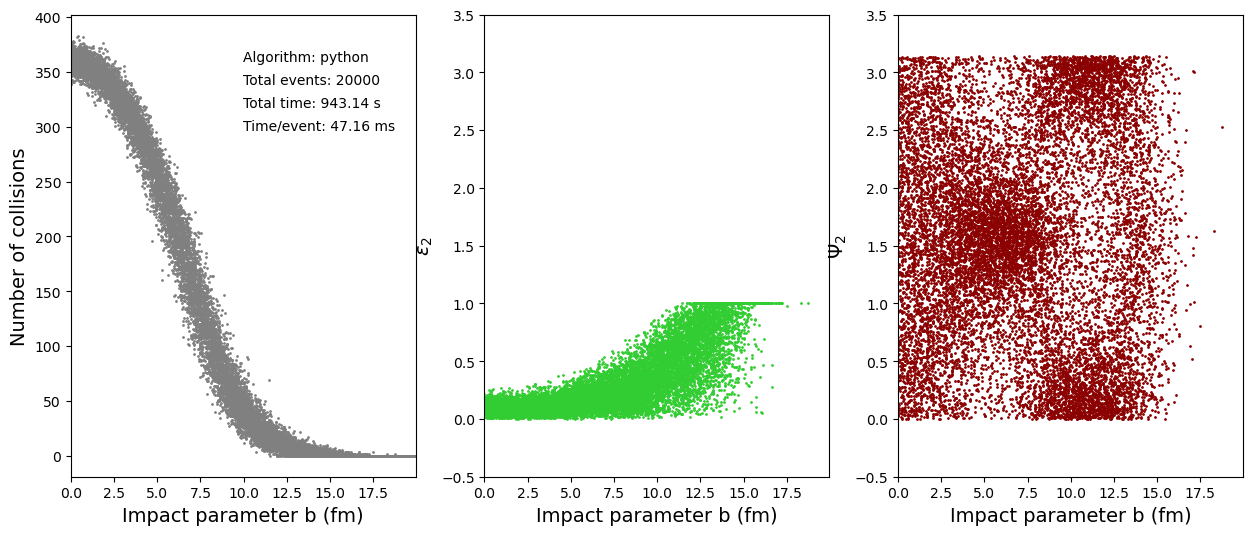
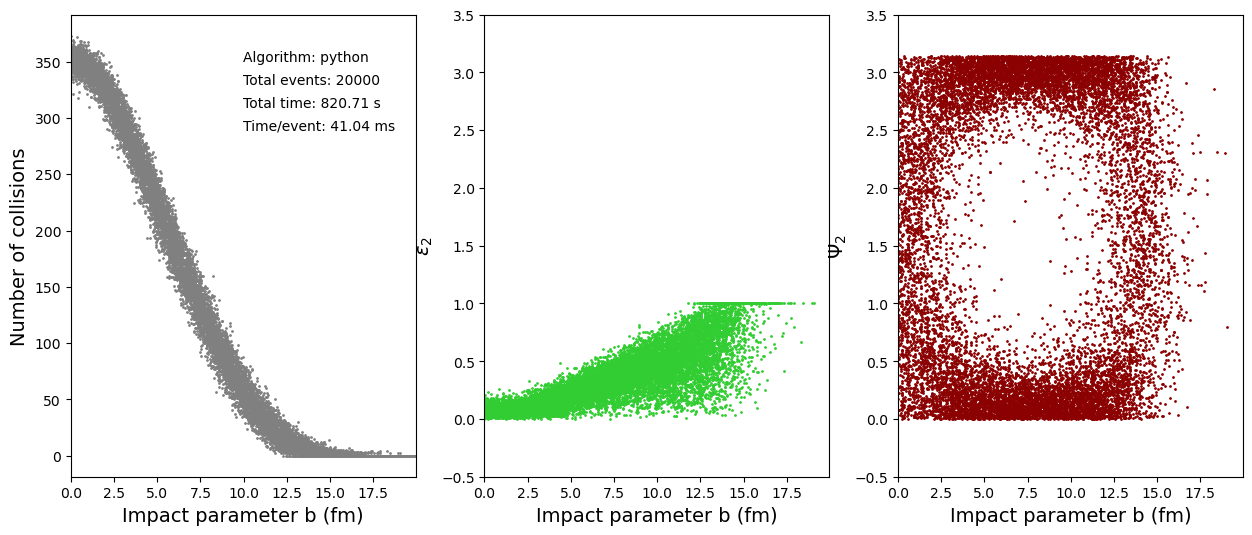
proper simulation, need to update readme

diff --git a/utils/glauber.py b/utils/glauber.py
@@ -1,38 +1,48 @@
 import numpy as np
 from utils import nucphys 
 
+#params au:
+# w = 0 # true for gold, I dont really use this, but keep for completeness
+def rho(r, R, a, w=0):
+  rho0 = 1 # nuclear density in the center (just use 1) 
+  num = 1 + w #w = w(r/R)=0 for gold (in general spherical nuclei) -> then rho decays to woods_saxon
+  denum = 1 + np.exp((r - R) / a)
+  return rho0 * num/denum
 
-def sample_woods_saxon(A, R, a, dmin, V0 = 1.0): # we assume V0 = 1
+def sample_f(r, R, a):
+  return 4*np.pi*r**2 * rho(r, R, a)
+
+def sample_woods_saxon(A, R, a, dmin):
   """
-  Sample A nucleon coordinates from a Woods-Saxon distribution
-  A: number of nucleons
-  R: radius parameter
-  a: diffuseness parameter
-  dmin: minimum inter-nucleon distance
-  Returns:
-    numpy array of coordinates of shape (A,3) (x,y,z)
+    Rejection sampling of nucleon coordinates from Woods-Saxon distribution
   """
-  coords=[]
-  while len(coords)<A:
-    rmax = 15.0 # should be enough for all nuclei
-    r = rmax*np.random.rand() 
-    costh = 2*np.random.rand()-1 # [-1,1] for cos(theta) 
-    phi = 2*np.pi*np.random.rand()
-    prob = V0/(1.0+np.exp((r-R)/a))
-    if np.random.rand()<prob:
-      x = r*np.sqrt(1-costh**2)*np.cos(phi)
-      y = r*np.sqrt(1-costh**2)*np.sin(phi)
-      z = r*costh
+  rmax = 15.0 # same as TGlauber
+
+  # r_grid = np.linspace(0.0, rmax, 1000)
+  # fmax = np.max(sample_f(r_grid, R, a))
+  fmax = 400.0 # precomputed maximum of sample_f for R=6.38, a=0.535, rmax=15.0 - should find a better way to do this
+
+  coords = []
+  while len(coords) < A:
+    r = rmax * np.random.rand()
+    costh = 2*np.random.rand() - 1 # [-1,1] for cos
+    phi = 2*np.pi * np.random.rand()
+    u = np.random.rand() * fmax
+    if u < sample_f(r, R, a):
+      s = np.sqrt(1 - costh*costh) # sin(theta)
+      x = r * s * np.cos(phi)
+      y = r * s * np.sin(phi)
+      z = r * costh
       ok = True
-      for (xx,yy,zz) in coords:
-        if (x-xx)**2+(y-yy)**2+(z-zz)**2<dmin**2:
+      for (xx, yy, zz) in coords:
+        if (x-xx)**2 + (y-yy)**2 + (z-zz)**2 < dmin**2:
           ok = False
           break
       if ok:
-        coords.append((x,y,z))
+        coords.append((x, y, z))
   return np.array(coords)
 
-def find_collisions(nuc1,nuc2,sig_nn=10.0):
+def find_collisions(nuc1,nuc2,sig_nn=10.0, doBC=False):
   """ 
   Find collisions between two sets of nucleons.
   nuc1, nuc2: arrays of shape (N,3) with nucleon coordinates
@@ -44,7 +54,8 @@ def find_collisions(nuc1,nuc2,sig_nn=10.0):
   rcut = np.sqrt(sig_nn/np.pi)
   part1 = np.zeros(len(nuc1),bool)
   part2 = np.zeros(len(nuc2),bool)
-  #bc = []
+  if doBC:
+    bc = []
   for i in range(len(nuc1)):
     for j in range(len(nuc2)):
       dx = nuc1[i,0]-nuc2[j,0]
@@ -53,21 +64,25 @@ def find_collisions(nuc1,nuc2,sig_nn=10.0):
       if dx*dx+dy*dy+dz*dz<rcut*rcut:
         part1[i] = True
         part2[j] = True
-        # bc.append(((nuc1[i,0]+nuc2[j,0])/2,
-        #            (nuc1[i,1]+nuc2[j,1])/2,
-        #            (nuc1[i,2]+nuc2[j,2])/2))
-  return part1, part2# , np.array(bc)
+        if doBC:
+          bc.append(((nuc1[i,0]+nuc2[j,0])/2,
+                   (nuc1[i,1]+nuc2[j,1])/2,
+                   (nuc1[i,2]+nuc2[j,2])/2))
+  if doBC:
+    return part1, part2, np.array(bc)
+  return part1, part2
+
 
 
 #Nucleus	Model	<r2>1/2 [fm]	c or a [fm]	z or ? [fm]	w	q-range	reference
 # 206Pb	FB	5.49	N/A	N/A	N/A	
 class Nuclei:
-  def __init__(self, A = 50):
+  def __init__(self, par):
     self.coords = None
-    self.A = A # nucleon number
-    self.R = 1.25 * A**(1/3) # R = r0 * A^(1/3), r0 = 1.25 fm
-    self.a = 0.5 # diffuseness parameter #found on wiki
-    self.dmin = 0.4 # minimum inter-nucleon distance
+    self.A = par.A # nucleon number
+    self.R = par.R #1.25 * A**(1/3) # R = r0 * A^(1/3), r0 = 1.25 fm
+    self.a = par.a #0.5 # diffuseness parameter #found on wiki
+    self.dmin = par.dmin # 0.4 # minimum inter-nucleon distance
 
   def sample_ws(self):
     self.coords = sample_woods_saxon(self.A, self.R, self.a, self.dmin)
@@ -90,7 +105,6 @@ class Nuclei:
   @property
   def shape(self):
     return self.coords.shape
-
 
 def calcPsi2Ecc2(nuc1, nuc2, wounded1, wounded2):
   # collect wounded nucleons from both nuclei
@@ -118,7 +132,6 @@ def calcPsi2Ecc2(nuc1, nuc2, wounded1, wounded2):
   psi2 = 1/2.0 * (np.arctan2(sin2,cos2) + np.pi) # shift from -pi,pi to 0,2pi
 
   return eps2, psi2
-
 
 if __name__ == "__main__":
   print(nucphys.nucmath.woods_saxon.__doc__)

diff --git a/plot_collision.py b/plot_collision.py
@@ -10,6 +10,7 @@ from matplotlib.patches import Ellipse
 
 from utils.glauber import sample_woods_saxon, find_collisions, Nuclei, calcPsi2Ecc2
 from utils import nucphys 
+from main import setup
 
 def draw_psi2_plane(ax, psi2, zmin=-25, zmax=25, r=15):
   nx = np.cos(psi2 + np.pi/2)
@@ -27,22 +28,23 @@ def draw_psi2_plane(ax, psi2, zmin=-25, zmax=25, r=15):
   return plane
 
 def collision_plane():
-  np.random.seed(11) # does not matter when using fortran
-  A=206 # nucleon number (
+  np.random.seed(15) # does not matter when using fortran
+  #A=206 # nucleon number (
+  par = setup()
   b=9.0 
-  nuc1 = Nuclei(A)
-  nuc1.sample_fws()
-  nuc2 = Nuclei(A)
-  nuc2.sample_fws()
+  nuc1 = Nuclei(par)
+  nuc1.sample_ws()
+  nuc2 = Nuclei(par)
+  nuc2.sample_ws()
 
   #nuc1[:,1]+=b/4
   nuc2[:,1]+=b/2
   nuc1[:,0]-=b/2
   nuc2[:,0]+=b/2
 
-  wounded1 = np.zeros(A, 'f', order='F') 
-  wounded2 = np.zeros(A, 'f', order='F') 
-  nucphys.nucutils.find_collisions(nuc1.coords,nuc2.coords, 10.0, wounded1, wounded2, A) 
+  wounded1 = np.zeros(par.A, 'f', order='F') 
+  wounded2 = np.zeros(par.A, 'f', order='F') 
+  nucphys.nucutils.find_collisions(nuc1.coords,nuc2.coords, 10.0, wounded1, wounded2, par.A) 
   wounded1 = wounded1.astype(bool)
   wounded2 = wounded2.astype(bool)
   #wounded1, wounded2 = find_collisions(nuc1, nuc2)
@@ -110,12 +112,13 @@ def collision_plane():
   f.savefig('figures/collision.png', dpi=300, bbox_inches='tight')
 
 def col_anim():
-  A=206 # nucleon number (
+  #A=206 # nucleon number (
+  par = setup()
   b=10.0 # impact parameter (change to centrality at some point)
   z0=20.0 # initial z offset
-  nuc1 = Nuclei(A)
+  nuc1 = Nuclei(par)
   nuc1.sample_fws()
-  nuc2 = Nuclei(A)
+  nuc2 = Nuclei(par)
   nuc2.sample_fws()
 
   nuc1[:,0]-=b/2
@@ -133,7 +136,7 @@ def col_anim():
     #nonlocal nuc1, nuc2, collisions, wounded1, wounded2
     nuc1[:,2] -= 0.5
     nuc2[:,2] += 0.5
-    part1, part2 = find_collisions(nuc1, nuc2)
+    part1, part2, bc  = find_collisions(nuc1, nuc2, doBC= True)
 
     p1 = np.asarray(part1)
     p2 = np.asarray(part2)
@@ -160,7 +163,7 @@ def col_anim():
       all_bc = np.vstack(collisions)
       scb._offsets3d = (all_bc[:,0], all_bc[:,1], all_bc[:,2])
 
-    return sc1, sc2, scb
+    return sc1, sc2#, scb
   # draw Psi2 line
   cx = np.mean(np.concatenate([nuc1[wounded1,0], nuc2[wounded2,0]]))
   cy = np.mean(np.concatenate([nuc1[wounded1,1], nuc2[wounded2,1]]))

diff --git a/main.py b/main.py
@@ -11,7 +11,10 @@ from utils import nucphys
 
 @dataclass
 class setup:
-  A: int = 206  # nucleon number
+  A: int = 197 # nucleon number for gold https://arxiv.org/pdf/nucl-ex/0701025
+  a: float = 0.535
+  R: float = 6.38
+  dmin: float = 0.4
   b_array: np.ndarray = field(default_factory=lambda: np.arange(0, 20, .05))
   #b_array: np.ndarray = field(default_factory=lambda: np.arange(0, 20, 0.5))
 
@@ -53,9 +56,9 @@ def main_fortran():
     for _ in range(par.n_events):
       sys.stdout.write(f"\r  Event {_+1}/{par.n_events} for b={b:.1f} fm")
       sys.stdout.flush()
-      nuc1 = Nuclei(par.A)
+      nuc1 = Nuclei(par)
       nuc1.sample_fws()
-      nuc2 = Nuclei(par.A)
+      nuc2 = Nuclei(par)
       nuc2.sample_fws()
       
       nuc1[:,0]-=b/2
@@ -97,9 +100,9 @@ def main_py():
     for _ in range(par.n_events):
       sys.stdout.write(f"\r  Event {_+1}/{par.n_events} for b={b:.1f} fm")
       sys.stdout.flush()
-      nuc1 = Nuclei(par.A)
+      nuc1 = Nuclei(par)
       nuc1.sample_ws()
-      nuc2 = Nuclei(par.A)
+      nuc2 = Nuclei(par)
       nuc2.sample_ws()
       
       nuc1[:,0]-=b/2
